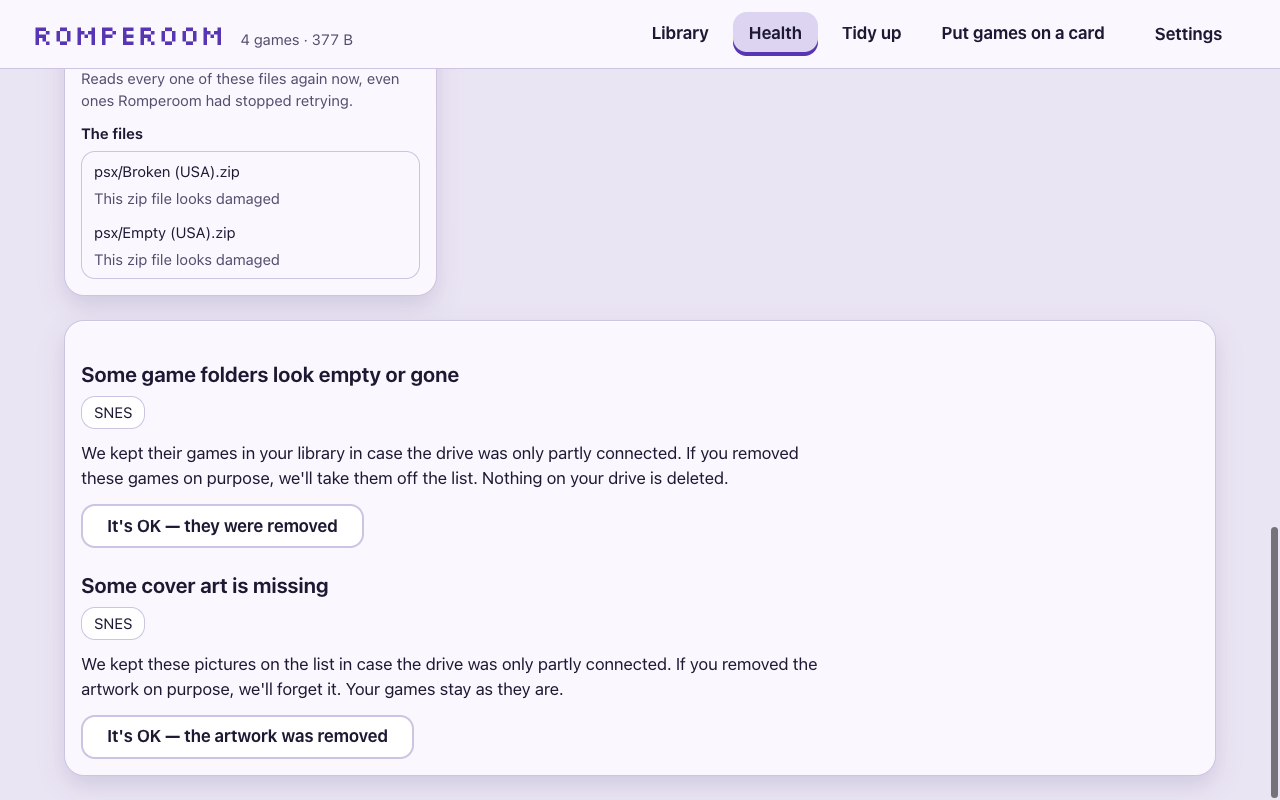
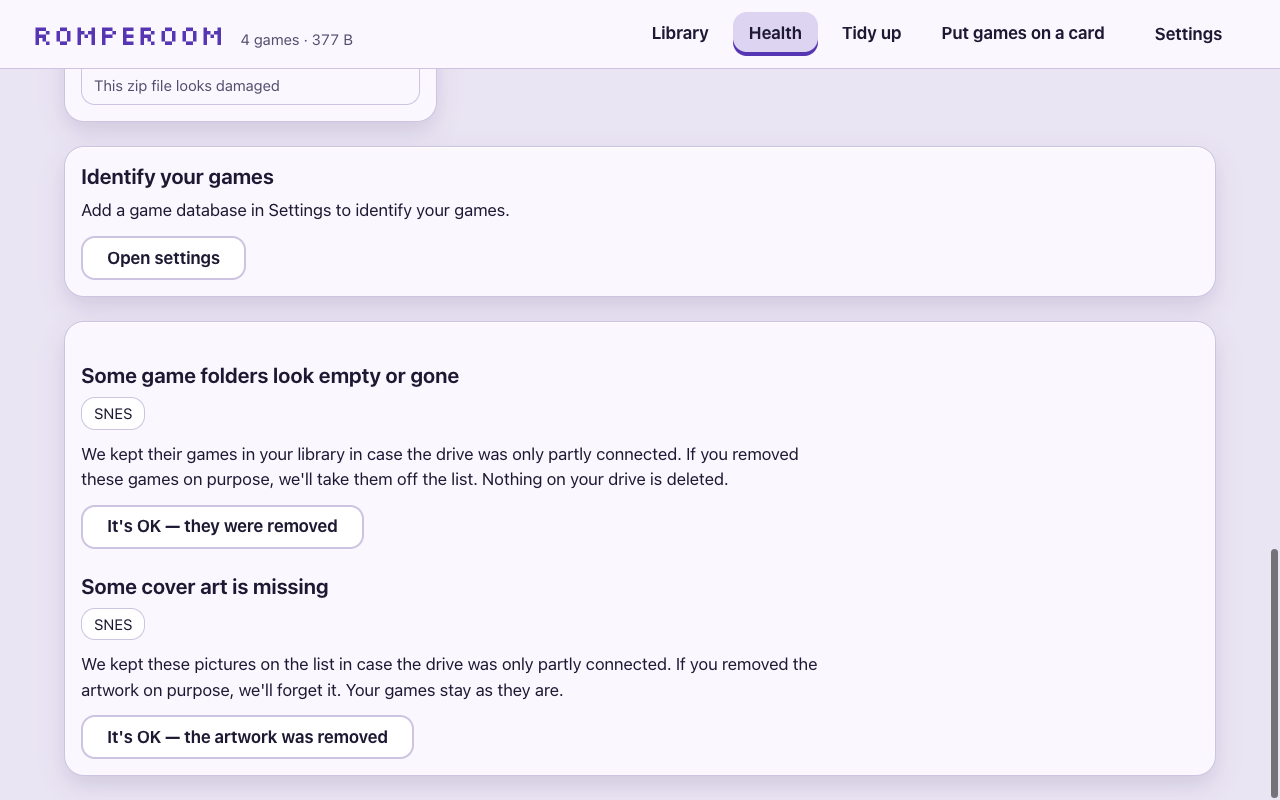
docs: 0.4.0 with identify in the user guide

diff --git a/docs/user-guide.md b/docs/user-guide.md
@@ -15,6 +15,10 @@ placeholder covers.
 - [Browse your games](#browse-your-games)
 - [Game details](#game-details)
 - [Library health](#library-health)
+- [Add a game database](#add-a-game-database)
+- [Identify your games](#identify-your-games)
+- [What the labels mean](#what-the-labels-mean)
+- [Check name matches](#check-name-matches)
 - [When folders look empty or gone](#when-folders-look-empty-or-gone)
 - [Files that couldn't be read](#files-that-couldnt-be-read)
 - [Settings and themes](#settings-and-themes)
@@ -89,9 +93,12 @@ Select a cover to open its details: the console, the region, whether the game is
 how many files it has, its size on disk, its size unzipped, and its cover art. Close the panel
 with its close button or Escape.
 
-**Identified** says "Unidentified" for every game in this version. Romperoom does not yet
-compare games with lists of known good copies. That comes with a later version (see the
-roadmap). The games still play as usual.
+**Identified** is one of the three labels in [What the labels mean](#what-the-labels-mean).
+**Identified by** names the game database and version that matched it, and that database's own
+title for the game (which can differ from the file name). Some databases, such as FinalBurn
+Neo's, file games under a short code; that code is shown too, as "DAT entry". It says "Not
+identified yet" until you import a database and identify (see
+[Identify your games](#identify-your-games)).
 
 | Light                                                           | Dark                                                                 |
 | --------------------------------------------------------------- | -------------------------------------------------------------------- |
@@ -106,7 +113,8 @@ roadmap). The games still play as usual.
   **Tidy up…** sets the extra copies aside (see [Tidy up your library](#tidy-up-your-library)).
   It checks each copy first and leaves the files of a multi-file game alone, so it may offer
   fewer than Health counts.
-- **Unidentified games.**
+- **Unidentified games**, from the last time you identified (see
+  [Identify your games](#identify-your-games) below).
 - **Folders without a console**, with a link to choose a console for each one in setup.
 - **Files that couldn't be read** (below).
 
@@ -115,6 +123,98 @@ Press **Scan again** after you change your files.
 | Light                                                         | Dark                                                               |
 | ------------------------------------------------------------- | ------------------------------------------------------------------ |
 | ![Library health](screenshots/health-console-shelf-light.png) | ![Library health, dark](screenshots/health-console-shelf-dark.png) |
+
+## Add a game database
+
+Romperoom ships with no game databases (DAT files) of its own. Get them from the groups that
+make them, for free:
+
+- [No-Intro](https://datomatic.no-intro.org/) (cartridge-based consoles and handhelds)
+- [Redump](http://redump.org/) (disc-based consoles)
+- [libretro-database](https://github.com/libretro/libretro-database) (copies of both, in one
+  place, handy for trying several consoles at once)
+
+Open **Settings** (top right) and switch to the **Game databases** tab. **Console** lets you
+say which console the file is for; leave it at **Work it out from the file** and Romperoom reads
+it from the file itself. Press **Import a DAT file** and choose the file in the dialog that
+opens. If Romperoom can't tell the console from the file, it asks you to choose one before it
+imports anything — when it has a guess, that guess is already chosen, for you to confirm. Once
+an import is done, **Console** goes back to **Work it out from the file**, so the next file is
+never tied to the console you chose for the last one.
+
+Each imported database is listed with its console, its name, where it came from, its version,
+the day you imported it, its number of games and its size. **Remove**
+asks you to confirm in place before it takes a database off the list. Games it had named go back
+to their file names until you identify again with the remaining databases.
+
+| Light                                                            | Dark                                                                  |
+| ---------------------------------------------------------------- | --------------------------------------------------------------------- |
+| ![Game databases](screenshots/databases-console-shelf-light.png) | ![Game databases, dark](screenshots/databases-console-shelf-dark.png) |
+
+## Identify your games
+
+Once you have imported a game database, Health shows an **Identify your games** card. Press
+**Identify games** to compare every file against the databases you imported for its console. It
+shows the phase it is in (reading your games, matching them, grouping discs and versions, then
+linking cover art) and how far it has gotten; **Stop** stops it there. Your files are never
+changed, but labels it had already worked out before you stopped it stay, with their cover art;
+the next run picks up where this one left off.
+
+A scan that finds a game database already imported identifies your library on its own once it
+finishes, so you rarely need to press the button yourself after the first time. When you scan
+several libraries at once, each one is identified in turn as the one before it finishes.
+
+Identifying never changes the files in your library: it only reads them. When it cannot finish
+(the library drive was disconnected, or many files in a row could not be read), it changes
+nothing it could not check and says so, rather than showing a count of zero; the next run carries
+on from where this one stopped. The card also flags when your databases changed since the last
+identify, so you know the labels may be out of date until you identify again.
+
+| Light                                                          | Dark                                                                |
+| --------------------------------------------------------------- | -------------------------------------------------------------------- |
+| ![Identify your games](screenshots/identify-console-shelf-light.png) | ![Identify your games, dark](screenshots/identify-console-shelf-dark.png) |
+
+## What the labels mean
+
+Identifying says how sure Romperoom is about each game, the same words wherever they appear (the
+card above, and a game's own details):
+
+- **Verified:** the file matches a known good copy of the game.
+- **Name match:** its name matches a game in your databases, but its contents don't match any
+  known copy (it was read and checked, and differs: a hack, a translation, a bad copy or a
+  different version).
+- **Unidentified:** Romperoom doesn't recognize this game yet. It still plays as usual.
+
+An unidentified file says why:
+
+- **Not read yet:** Romperoom couldn't read this file. Scan again, then identify.
+- **In another console's database:** the file matches a game in another console's database. Move
+  it to that console's folder to identify it.
+- **No database for this console:** you have not imported a database for its console.
+- **Not in your databases:** the console's databases don't list this exact file, or you rejected
+  every match they offered for it. It may be a hack, a translation or a bad copy.
+
+Files a scan hasn't finished reading yet are skipped; they are identified once a later scan has
+read them. Files a scan has read but no identify has looked at since (for example after you
+removed a database) are counted as not identified yet: press **Identify games**. **Why each game is unidentified** lists every one of them by name, with its reason (for
+"In another console's database", the console it matches).
+
+A verified file the database itself flags as a bad dump still plays, but says so under
+**Identified by**: it may not be a clean copy.
+
+## Check name matches
+
+A name match, or a file that matches several games at once, is offered for review on the same
+card, named by the database's title and the file it matches. **Accept** it to keep it. **Reject**
+asks you to confirm, since Romperoom never offers that pairing again; once confirmed, it tries the
+next match, or puts the file back under its own file name once you have rejected every match it
+had (the file then leaves the list). **Accept all on this page** and
+**Reject all on this page** decide everything currently loaded at once (Reject all asks first,
+too). **Show more** loads further matches when there are many.
+
+| Light                                                    | Dark                                                          |
+| --------------------------------------------------------- | ---------------------------------------------------------------- |
+| ![Check name matches](screenshots/review-console-shelf-light.png) | ![Check name matches, dark](screenshots/review-console-shelf-dark.png) |
 
 ## When folders look empty or gone
 
@@ -143,7 +243,8 @@ changes your files. Press **Try again** to read every one of them again now.
 
 ## Settings and themes
 
-**Settings** (top right) changes how Romperoom looks:
+**Settings** (top right) has two tabs: **Appearance** and **Game databases** (see
+[Add a game database](#add-a-game-database)). Appearance changes how Romperoom looks:
 
 - **Theme:** Console shelf (warm and cosy), CRT neon (glowing arcade colours) or Clean modern
   (quiet, so the cover art stands out).
@@ -229,6 +330,9 @@ once you are sure. Files you put on the card yourself are never replaced or move
 - **Two games with the same name on the card.** When two games would end up with one file
   name, each gets a short code from its own file, such as `Game (3fa9c1).nes`. Adding or
   removing one of them does not rename the other.
+- **Identified games.** Once a game is identified, its name on the card comes from the game
+  database, not the file name; two revisions of one identified game still count as one game for
+  **One version of each game**.
 
 [deploy-device-lt]: screenshots/deploy-device-console-shelf-light.png
 [deploy-device-dk]: screenshots/deploy-device-console-shelf-dark.png
@@ -361,9 +465,10 @@ In a folder of its own, not in your ROM folder (see
 [configuration.md](../README.md#your-data-and-uninstalling)). To start over, quit Romperoom and delete
 that folder. Your games are not touched.
 
-**Why does every game say "Unidentified"?**
-Identifying games against lists of known good copies is the next milestone. See the
-roadmap.
+**Why does a game say "Unidentified"?**
+You have not imported a game database for its console, or have not pressed **Identify games**
+yet, or the file does not match what is in the databases you imported. See
+[What the labels mean](#what-the-labels-mean) for every reason and what to do about it.
 
 **Why are some games missing?**
 Their folder may not match a console: look under **Folders without a console** on Health. A

diff --git a/README.md b/README.md
@@ -27,15 +27,15 @@ no source code here.
 
 ## Download
 
-The latest version is **0.3.0** (beta). Every version is on the
+The latest version is **0.4.0** (beta). Every version is on the
 [releases page](https://github.com/MakerCorn/romperoom-releases/releases); the newest is
 [here](https://github.com/MakerCorn/romperoom-releases/releases/latest).
 
 | Computer                       | Download                                                              |
 | ------------------------------ | --------------------------------------------------------------------- |
-| Mac with Apple silicon         | `Romperoom-0.3.0-mac-arm64.dmg` (or the `.zip` of the same app)       |
-| Windows 10 or 11, 64-bit (x64) | `Romperoom-0.3.0-win-x64.exe` (installer) or the `.zip`               |
-| Linux, 64-bit (x64)            | `Romperoom-0.3.0-linux-amd64.deb` (Ubuntu, Debian) or the `.AppImage` |
+| Mac with Apple silicon         | `Romperoom-0.4.0-mac-arm64.dmg` (or the `.zip` of the same app)       |
+| Windows 10 or 11, 64-bit (x64) | `Romperoom-0.4.0-win-x64.exe` (installer) or the `.zip`               |
+| Linux, 64-bit (x64)            | `Romperoom-0.4.0-linux-amd64.deb` (Ubuntu, Debian) or the `.AppImage` |
 
 Requirements: macOS 12 or later on Apple silicon; Windows 10 or 11 on a 64-bit Intel or AMD
 processor; a 64-bit Linux with a desktop (the `.deb` for Ubuntu 22.04+ or Debian 12+). Intel Macs
@@ -62,7 +62,7 @@ Each file you downloaded must say `OK`.
 Windows (PowerShell, in the download folder):
 
 ```powershell
-Get-FileHash -Algorithm SHA256 .\Romperoom-0.3.0-win-x64.exe
+Get-FileHash -Algorithm SHA256 .\Romperoom-0.4.0-win-x64.exe
 ```
 
 The `Hash` it prints must equal the line for that file in `SHA256SUMS.txt` (PowerShell prints
@@ -80,7 +80,7 @@ still does not match.
   Start menu and desktop shortcuts. The `.zip` holds the same app without an installer: unzip it
   anywhere and run `Romperoom.exe`.
 - **Linux (Ubuntu, Debian):** install the `.deb`, for example
-  `sudo apt install ./Romperoom-0.3.0-linux-amd64.deb`, then open Romperoom from your
+  `sudo apt install ./Romperoom-0.4.0-linux-amd64.deb`, then open Romperoom from your
   applications. Other distributions: make the `.AppImage` executable
   (`chmod +x Romperoom-*.AppImage`) and run it. On Ubuntu 23.10 and later the AppImage may refuse
   to start because of a system restriction on Electron's sandbox; use the `.deb` there, and never
